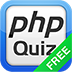
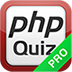
Added images to pro version ad

diff --git a/php-certification/css/index.css b/php-certification/css/index.css
@@ -246,10 +246,12 @@ span.no-bookmark {
 
 #jqt #pro-version-ad-content-title {
     width: 100%;
-    padding: 55px 0 30px 0;
+    padding: 55px 0 2px 0;
     font-weight: bold;
     color: #CA0000;
     font-size: 1.6em;
+    border-bottom: 1px solid #CA0000;
+    margin-bottom: 25px;
 }
 
 #jqt #pro-version-ad-content-text div {
@@ -261,8 +263,8 @@ span.no-bookmark {
 }
 
 #jqt .ad-list {
-    background: url(../img/evensoftware/icon_pro_version.png) no-repeat 0 0;
-    padding: 10px 0 0 80px;
+    background: url(../img/star_yellow_25x25.png) no-repeat 0 5px;
+    padding: 10px 0 0 33px;
 }
 
 #jqt #pro-version-ad-content-text div#pro-version-ad-icon {
